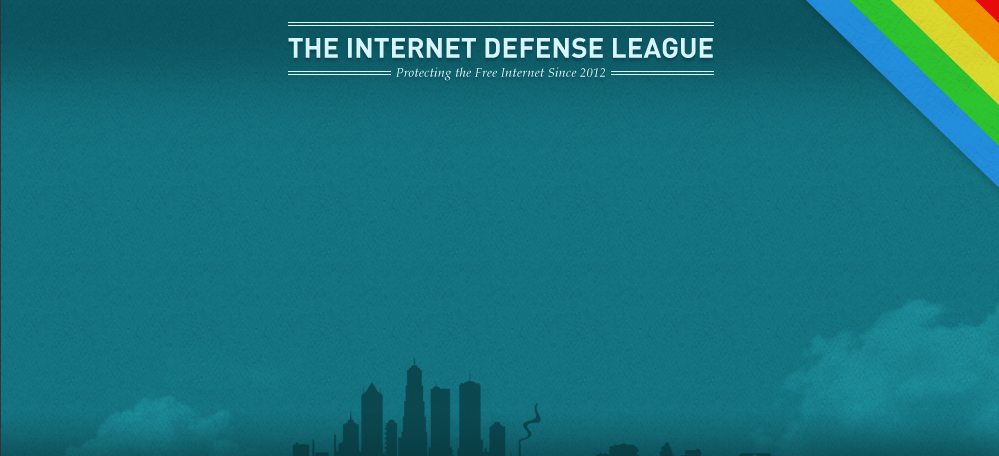
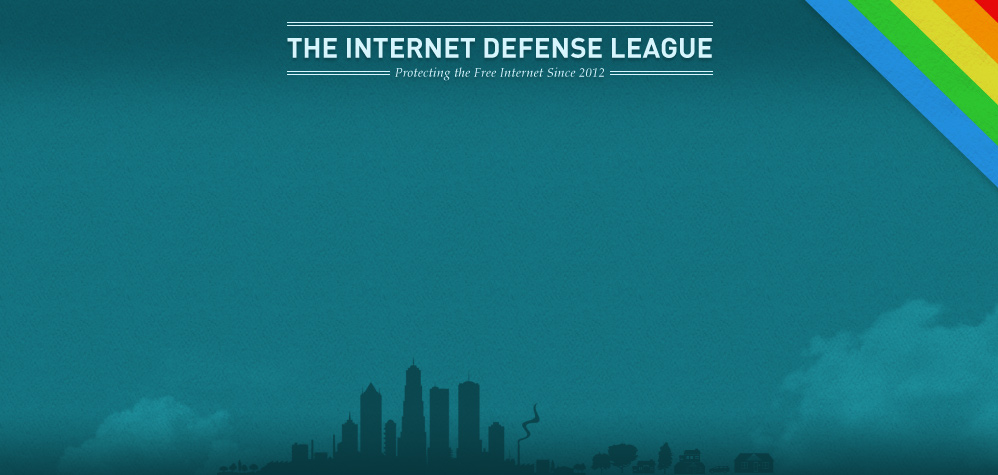
Fixed bg image on /confirm and /thanks

diff --git a/public/index.html b/public/index.html
@@ -15,8 +15,7 @@
 	<script type="text/javascript">actionkit.forms.initPage()</script>
 	
 	
-	<meta property="og:title" content="Want to help defend the internet from attacks like CISPA? Join me in the
-	Internet Defense League! If we act together, we can save the net." />
+	<meta property="og:title" content="If we act together, we can save the net from attacks like #CISPA. Join me in the Internet Defense League!" />
 		  <meta property="og:description" content="The Internet Defense League is a group of sites simultaneously sound the
 			alarm when powerful interests try to restrict or censor the internet.
 			Think the SOPA blackout, but larger and even more unstoppable. We have

diff --git a/public/confirm/index.html b/public/confirm/index.html
@@ -13,7 +13,7 @@
 <body>
  
 
-  <div id="wrapper" style="background: #000 url('/images/IDL.teal.thanks.png') no-repeat;">
+  <div id="wrapper" style="background: #000 url('/images/IDL.teal.thanks.png') no-repeat; height: 1900px;">
     <div id="container">
       <div class="wrap" id="intro"></div>
 
@@ -27,7 +27,7 @@
 				<h2>Check your inbox now.</h2>
 				<p style="margin-top: 20px;"><a href="mailto:team@fightforthefuture.org?subject=I%20didn't%20get%20a%20confirmation%20email%20%3A(" style="display: inline-block; margin-right: 30px;">I didn't get the email</a> <a href="/thanks/">I already confirmed</a></p>
 
-		
+
       </div>
 </div>
 
